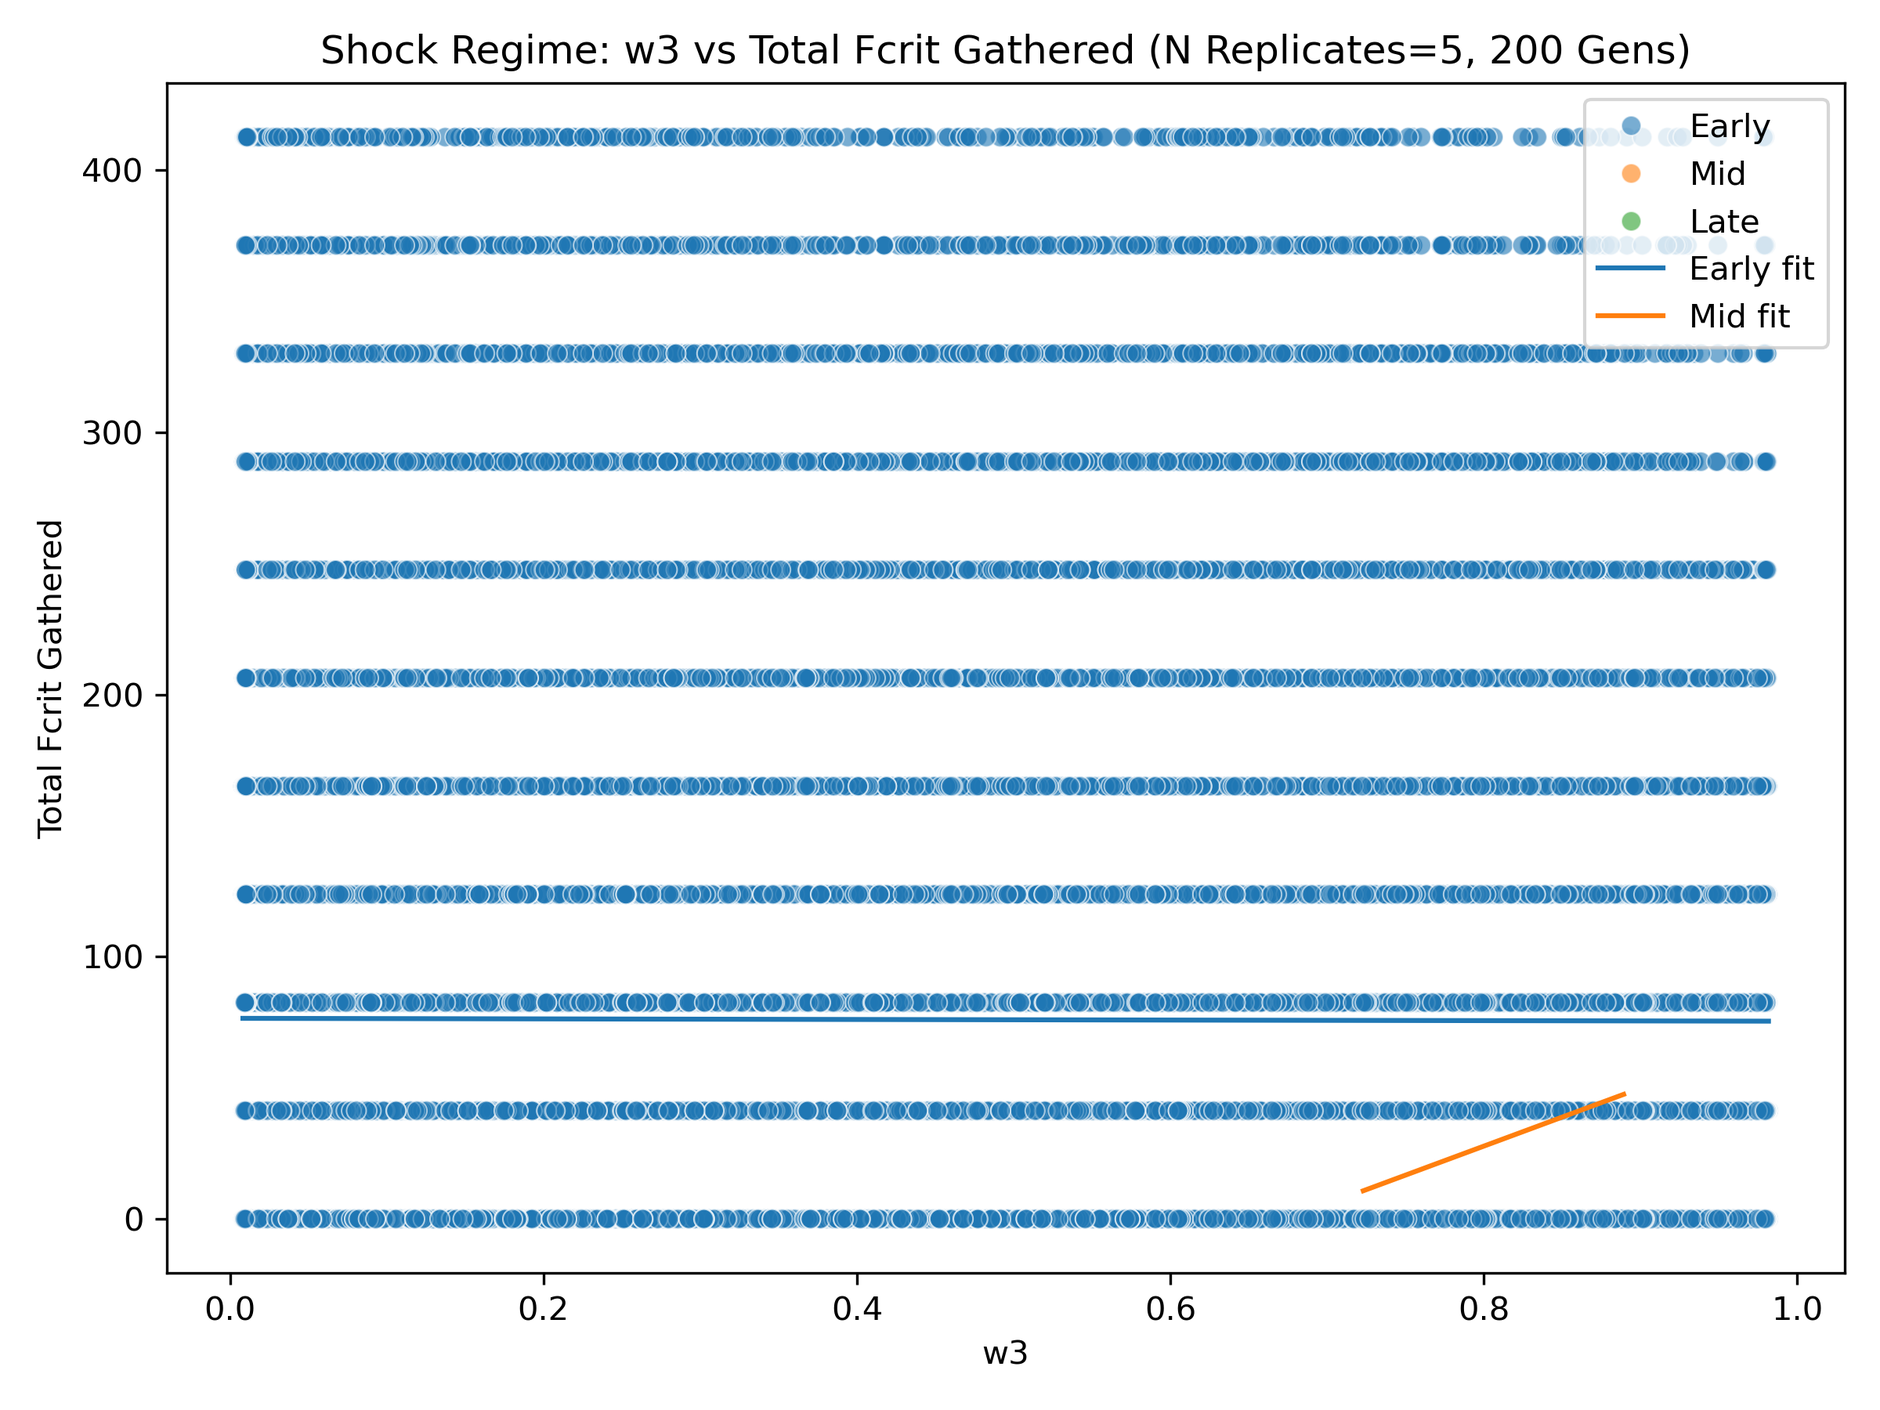
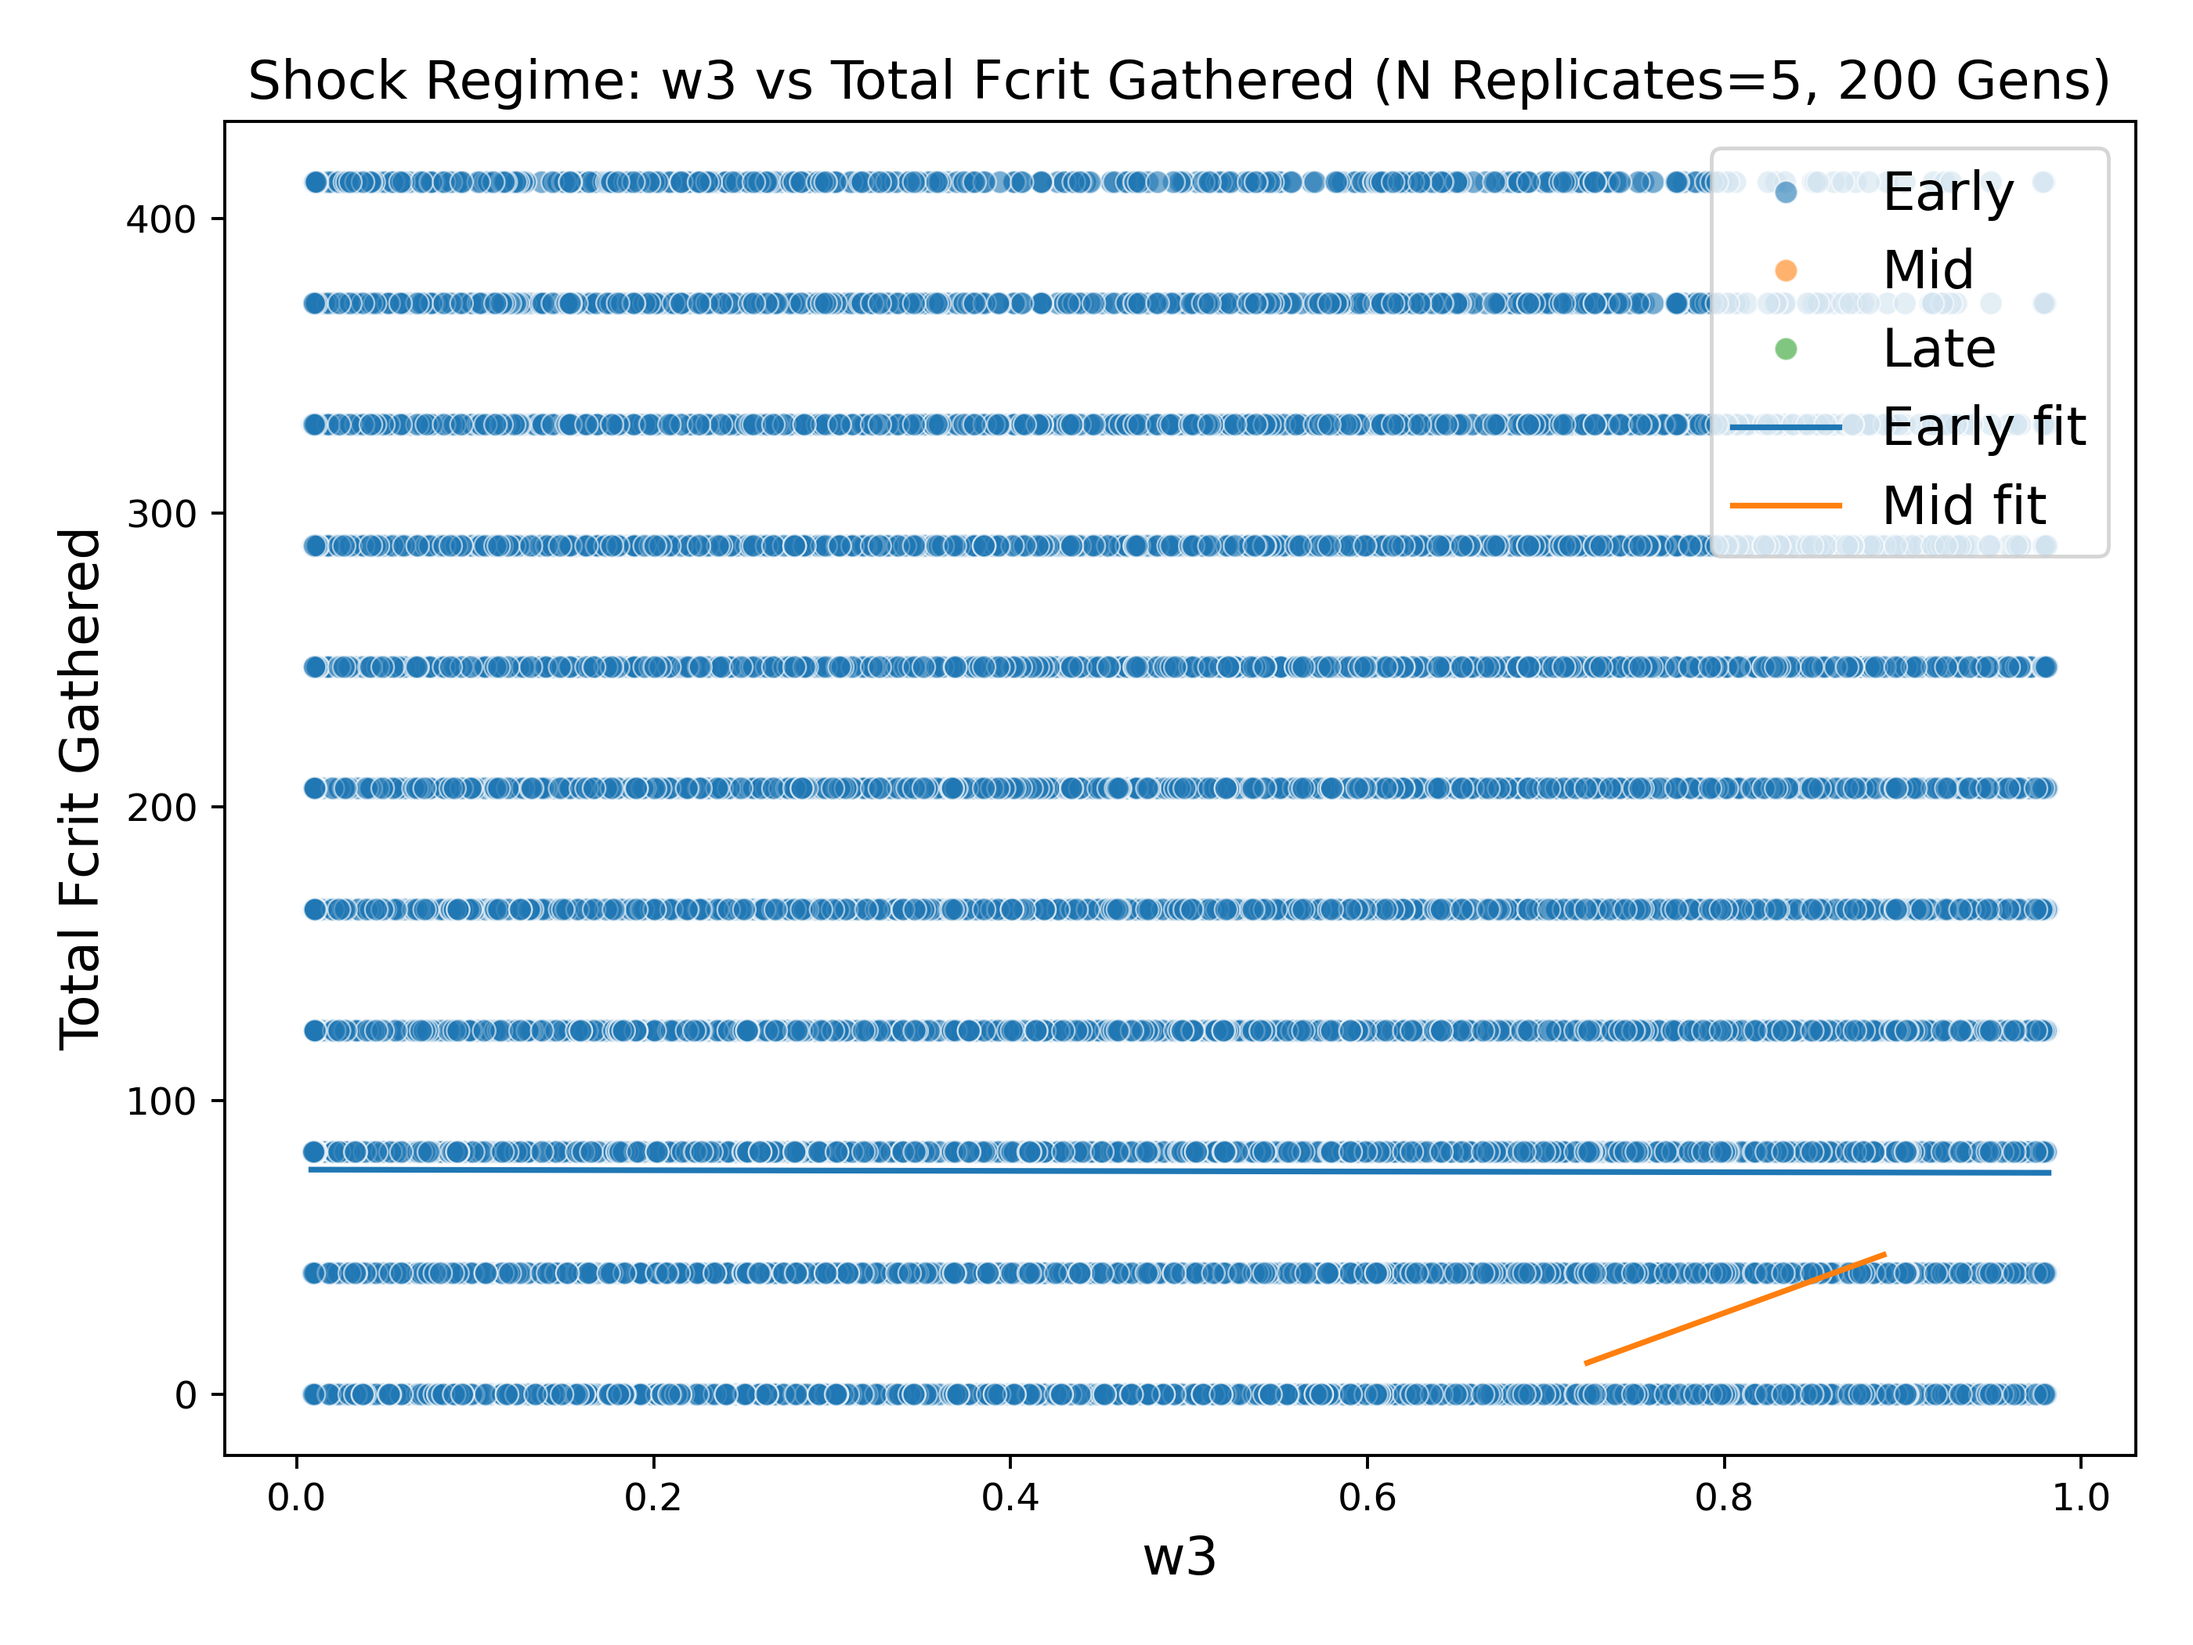
Finished

diff --git a/evolved_tolerance_sheet.py b/evolved_tolerance_sheet.py
@@ -1,4 +1,4 @@
-#evolved_simulation_code_refactored.py
+#evolved_simulation_code.py
 import json
 import numpy as np
 import pandas as pd
@@ -12,6 +12,15 @@ import seaborn as sns
 import os
 from itertools import combinations
 from sklearn.linear_model import LinearRegression  # For trend analysis
+
+# Increase base font sizes for readability in generated figures
+# These defaults work well for the stand alone figures such as the
+# ternary plot.  They will be overridden for the distribution plots
+# which are later scaled down threefold for print.
+plt.rc('font', size=14)
+plt.rc('axes', titlesize=14, labelsize=14)
+plt.rc('xtick', labelsize=10)
+plt.rc('ytick', labelsize=10)
 
 # --- Configuration Dictionary ---
 # REFACTORED CONFIG to strengthen w_k selection pressures
@@ -930,7 +939,7 @@ if __name__ == "__main__":
                              ax_mean.fill_between(df_mean_over_reps["generation"], df_mean_over_reps[mean_col]-df_std_over_reps[std_col_of_means],
                                              df_mean_over_reps[mean_col]+df_std_over_reps[std_col_of_means], color=plot_colors[regime_name], alpha=0.15)
                     ax_mean.set_ylabel(f"Mean Pop. ${wk_label}$"); ax_mean.grid(True)
-                    if k_idx ==0: ax_mean.legend(title="Regime - Mean $w_k$", fontsize='small')
+                    if k_idx ==0: ax_mean.legend(title="Regime - Mean $w_k$", fontsize=16)
 
                     if std_intra_pop_col in df_mean_over_reps:
                         ax_std_intra.plot(df_mean_over_reps["generation"], df_mean_over_reps[std_intra_pop_col], label=f'{regime_name}', color=plot_colors[regime_name], alpha=0.9, linestyle='--')
@@ -938,7 +947,7 @@ if __name__ == "__main__":
                             ax_std_intra.fill_between(df_mean_over_reps["generation"], df_mean_over_reps[std_intra_pop_col]-df_std_over_reps[std_intra_pop_col],
                                                 df_mean_over_reps[std_intra_pop_col]+df_std_over_reps[std_intra_pop_col], color=plot_colors[regime_name], alpha=0.1)
                     ax_std_intra.set_ylabel(f"Mean Intra-Pop SD ${wk_label}$"); ax_std_intra.grid(True)
-                    if k_idx == 0: ax_std_intra.legend(title="Regime - $w_k$ Spread", fontsize='small')
+                    if k_idx == 0: ax_std_intra.legend(title="Regime - $w_k$ Spread", fontsize=16)
 
 
                 metrics_to_plot_right = ["population_size", "mean_fcrit", "num_births", "mean_g_lever", "mean_beta_lever"]
@@ -951,18 +960,18 @@ if __name__ == "__main__":
                             ax_r.fill_between(df_mean_over_reps["generation"], df_mean_over_reps[metric_name]-df_std_over_reps[metric_name],
                                               df_mean_over_reps[metric_name]+df_std_over_reps[metric_name], color=plot_colors[regime_name], alpha=0.15)
                     ax_r.set_ylabel(y_labels_right[r_idx]); ax_r.grid(True)
-                    if r_idx == 0: ax_r.legend(title="Regime - Demographics/Levers", fontsize='small')
+                    if r_idx == 0: ax_r.legend(title="Regime - Demographics/Levers", fontsize=16)
                 axes_ts[len(metrics_to_plot_right)-1, 1].set_xlabel("Generation")
 
         fig_ts.suptitle(f"Evolution of Population $w_k$ Profiles, Demographics, and Levers (Mean $\pm$ SD over {num_replicates} Replicates, {num_generations_config} Generations)", fontsize=16)
         plt.tight_layout(rect=[0, 0, 1, 0.96])
-        fig_ts.savefig(os.path.join(RESULTS_FOLDER, f"wk_evolution_timeseries_nrep{num_replicates}_ngen{num_generations_config}.png"), dpi=300); plt.show()
+        fig_ts.savefig(os.path.join(RESULTS_FOLDER, f"wk_evolution_timeseries_nrep{num_replicates}_ngen{num_generations_config}.png"), dpi=350); plt.show()
 
         # Ternary Plot
         if 'ternary' in sys.modules:
             figure_tern, tax_reordered = ternary.figure(scale=1.0); tax_reordered.boundary(linewidth=1.5)
             tax_reordered.gridlines(color="gray", multiple=0.2, linewidth=0.5, alpha=0.6)
-            tax_reordered.set_title(f"Mean $w_k$ Trajectories & Endpoints (N Replicates={num_replicates}, {num_generations_config} Gens)", fontsize=14)
+            #tax_reordered.set_title(f"Mean $w_k$ Trajectories & Endpoints (N Replicates={num_replicates}, {num_generations_config} Gens)", fontsize=14)
 
             for regime_name in regimes_to_run:
                 if regime_name in all_regime_pop_data and not all_regime_pop_data[regime_name].empty:
@@ -1002,21 +1011,28 @@ if __name__ == "__main__":
 
             start_dummy = (1/3, 1/3, 1/3)
             tax_reordered.scatter([start_dummy], marker='s', color='lightgray', edgecolors='k', s=70, alpha=0.0, label='Start Point')
-            tax_reordered.legend(title="Regime", fontsize='small', loc='center left', bbox_to_anchor=(1.05, 0.5))
-            tax_reordered.ticks(axis='lbr', linewidth=1, multiple=0.2, tick_formats="%.1f", offset=0.02, fontsize=8)
+            tax_reordered.legend(title="Regime", fontsize=14, loc='center left', bbox_to_anchor=(1.05, 0.5))
+            tax_reordered.ticks(axis='lbr', linewidth=1, multiple=0.2, tick_formats="%.1f", offset=0.02, fontsize=10)
             tax_reordered.get_axes().axis('off'); tax_reordered.clear_matplotlib_ticks()
-            tax_reordered.right_corner_label("$w_3$ (Slack)", fontsize=11); tax_reordered.top_corner_label("$w_1$ (Perception)", fontsize=11); tax_reordered.left_corner_label("$w_2$ (Precision)", fontsize=11)
-            plt.tight_layout(); figure_tern.savefig(os.path.join(RESULTS_FOLDER, f"wk_evolution_ternary_nrep{num_replicates}_ngen{num_generations_config}.png"), dpi=300, bbox_inches='tight'); plt.show()
+            tax_reordered.right_corner_label("$w_3$ (Slack)", fontsize=14, offset=0.12); tax_reordered.top_corner_label("$w_1$ (Perception)", fontsize=14, offset=0.12); tax_reordered.left_corner_label("$w_2$ (Precision)", fontsize=14, offset=0.12)
+            plt.tight_layout(); figure_tern.savefig(os.path.join(RESULTS_FOLDER, f"wk_evolution_ternary_nrep{num_replicates}_ngen{num_generations_config}.png"), dpi=350, bbox_inches='tight'); plt.show()
 
         # KDE plots
         log_wk_dist_gens_plot = CONFIG["simulation"]["log_wk_dist_gens"]
         if log_wk_dist_gens_plot:
+            # Distribution plots will be scaled down in the final layout.
+            # Increase fonts so that they remain above Amazon's 7pt minimum
+            # after a threefold reduction in size.
+            plt.rc('font', size=21)
+            plt.rc('axes', titlesize=21, labelsize=21)
+            plt.rc('xtick', labelsize=21)
+            plt.rc('ytick', labelsize=21)
             for gen_snapshot in log_wk_dist_gens_plot:
                 if gen_snapshot >= num_generations_config:
                     print(f"Skipping KDE plot for gen {gen_snapshot} as it exceeds num_generations {num_generations_config}")
                     continue
                 fig_kde, axes_kde = plt.subplots(1, 3, figsize=(20, 6), sharey=True)
-                fig_kde.suptitle(f"$w_k$ Population Distributions at Generation {gen_snapshot} (All Replicates Pooled, N Replicates={num_replicates}, {num_generations_config} Total Gens)", fontsize=16)
+                #fig_kde.suptitle(f"$w_k$ Population Distributions at Generation {gen_snapshot} (All Replicates Pooled, N Replicates={num_replicates}, {num_generations_config} Total Gens)", fontsize=16)
                 for i_wk, wk_label_short in enumerate(["w1", "w2", "w3"]):
                     ax_curr = axes_kde[i_wk]
                     for regime_name in regimes_to_run:
@@ -1040,10 +1056,21 @@ if __name__ == "__main__":
                                                                     'q50': q50,
                                                                     'q75': q75,
                                                                     'q95': q95})
-                    ax_curr.set_title(f"Distribution of ${wk_label_short}$"); ax_curr.set_xlabel(f"${wk_label_short}$ value")
-                    ax_curr.legend(fontsize='small'); ax_curr.grid(True); ax_curr.set_xlim(0,1)
-                axes_kde[0].set_ylabel("Density"); plt.tight_layout(rect=[0, 0, 1, 0.95])
-                fig_kde.savefig(os.path.join(RESULTS_FOLDER, f"wk_dist_kde_gen_{gen_snapshot}_nrep{num_replicates}_ngen{num_generations_config}.png"), dpi=300); plt.show()
+                    ax_curr.set_title(f"Distribution of ${wk_label_short}$", fontsize=21)
+                    ax_curr.set_xlabel(f"${wk_label_short}$ value", fontsize=21)
+                    ax_curr.legend(fontsize=21); ax_curr.grid(True); ax_curr.set_xlim(0,1)
+                    ax_curr.tick_params(axis='both', labelsize=21)
+                axes_kde[0].set_ylabel("Density", fontsize=21)
+                for ax_tmp in axes_kde:
+                    ax_tmp.tick_params(axis='both', labelsize=21)
+                plt.tight_layout(rect=[0, 0, 1, 0.95])
+                fig_kde.savefig(os.path.join(RESULTS_FOLDER, f"wk_dist_kde_gen_{gen_snapshot}_nrep{num_replicates}_ngen{num_generations_config}.png"), dpi=350); plt.show()
+
+            # Restore the smaller base font sizes for any subsequent figures
+            plt.rc('font', size=14)
+            plt.rc('axes', titlesize=14, labelsize=14)
+            plt.rc('xtick', labelsize=10)
+            plt.rc('ytick', labelsize=10)
 
         # --- Statistical Tests ---
         # (Statistical test logging code from previous response goes here)
@@ -1262,7 +1289,7 @@ if __name__ == "__main__":
                                 slope, intercept, _, _, _ = stats.linregress(x_data[valid_scatter_indices], y_data[valid_scatter_indices])
                                 x_vals_plot = np.array([x_data[valid_scatter_indices].min(), x_data[valid_scatter_indices].max()]); plt.plot(x_vals_plot, intercept + slope * x_vals_plot, label=f'{band_scatter} fit')
                     plt.title(f'{regime_for_plot} Regime: w3 vs Total Fcrit Gathered (N Replicates={num_replicates}, {num_generations_config} Gens)'); plt.xlabel('w3'); plt.ylabel('Total Fcrit Gathered'); plt.legend(); plt.tight_layout()
-                    plt.savefig(os.path.join(RESULTS_FOLDER, f"fitness_scatter_{regime_for_plot.lower()}_w3_vs_fcrit_nrep{num_replicates}_ngen{num_generations_config}.png"), dpi=300); plt.show()
+                    plt.savefig(os.path.join(RESULTS_FOLDER, f"fitness_scatter_{regime_for_plot.lower()}_w3_vs_fcrit_nrep{num_replicates}_ngen{num_generations_config}.png"), dpi=350); plt.show()
         else: no_fitness_log_print = "Individual agent fitness logging was not enabled sufficiently for analysis."; print(no_fitness_log_print); append_stat({'analysis_group': 'Fitness_Correlation_Setup', 'notes': no_fitness_log_print.strip()})
     else: print("No simulation data was generated for plotting.")
 
